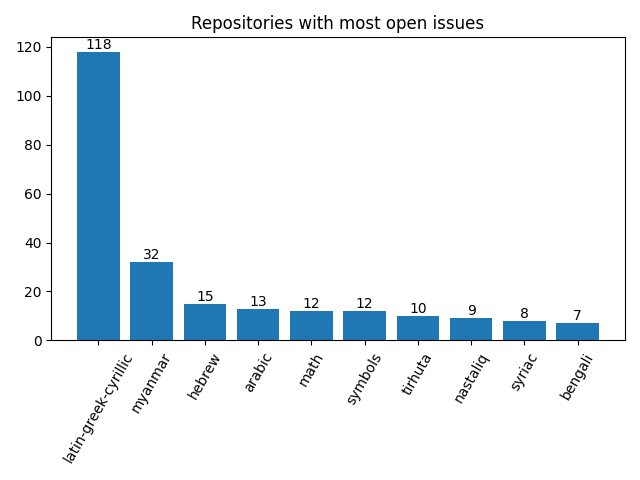
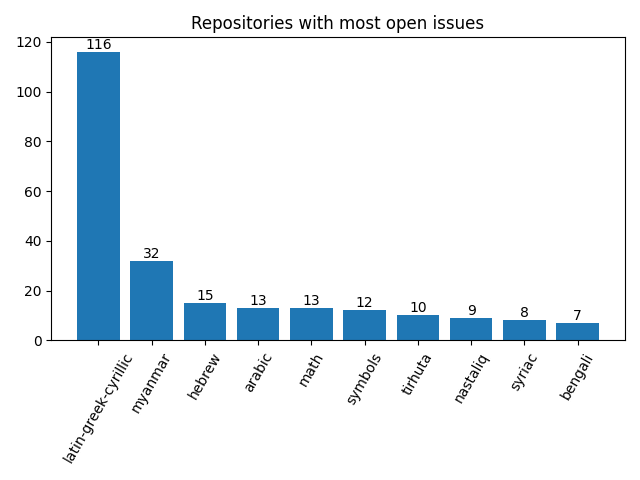
Apply automatic changes

diff --git a/docs/analytics.html b/docs/analytics.html
@@ -69,7 +69,7 @@ td .material-icons { display:inline-flex; vertical-align: top; font-size:1.1rem;
 						</tr>
 						<tr>
 							<td>Jan</td>
-							<td>4</td>
+							<td>5</td>
 							<td>0</td>
 						</tr>
 					</table>
@@ -90,7 +90,7 @@ td .material-icons { display:inline-flex; vertical-align: top; font-size:1.1rem;
 							<td>
 								<a href="http://github.com/notofonts/latin-greek-cyrillic/issues">latin-greek-cyrillic</a>
 							</td>
-							<td>118</td>
+							<td>116</td>
 						</tr>
 						<tr>
 							<td>
@@ -114,7 +114,7 @@ td .material-icons { display:inline-flex; vertical-align: top; font-size:1.1rem;
 							<td>
 								<a href="http://github.com/notofonts/math/issues">math</a>
 							</td>
-							<td>12</td>
+							<td>13</td>
 						</tr>
 						<tr>
 							<td>
@@ -185,13 +185,13 @@ td .material-icons { display:inline-flex; vertical-align: top; font-size:1.1rem;
 				<tr>
 					<td>5</td>
 					<td>
-						<a href="http://github.com/notofonts/bhaiksuki/issues">bhaiksuki</a>,  						<a href="http://github.com/notofonts/gurmukhi/issues">gurmukhi</a>,  						<a href="http://github.com/notofonts/kawi/issues">kawi</a>,  						<a href="http://github.com/notofonts/nandinagari/issues">nandinagari</a>,  						<a href="http://github.com/notofonts/sign-writing/issues">sign-writing</a>,  						<a href="http://github.com/notofonts/syloti-nagri/issues">syloti-nagri</a>,  						<a href="http://github.com/notofonts/tibetan/issues">tibetan</a> 
+						<a href="http://github.com/notofonts/bhaiksuki/issues">bhaiksuki</a>,  						<a href="http://github.com/notofonts/gujarati/issues">gujarati</a>,  						<a href="http://github.com/notofonts/gurmukhi/issues">gurmukhi</a>,  						<a href="http://github.com/notofonts/kawi/issues">kawi</a>,  						<a href="http://github.com/notofonts/nandinagari/issues">nandinagari</a>,  						<a href="http://github.com/notofonts/sign-writing/issues">sign-writing</a>,  						<a href="http://github.com/notofonts/syloti-nagri/issues">syloti-nagri</a>,  						<a href="http://github.com/notofonts/tibetan/issues">tibetan</a> 
 					</td>
 				</tr>
 				<tr>
 					<td>6</td>
 					<td>
-						<a href="http://github.com/notofonts/ahom/issues">ahom</a>,  						<a href="http://github.com/notofonts/dives-akuru/issues">dives-akuru</a>,  						<a href="http://github.com/notofonts/egyptian-hieroglyphs/issues">egyptian-hieroglyphs</a>,  						<a href="http://github.com/notofonts/gujarati/issues">gujarati</a>,  						<a href="http://github.com/notofonts/kannada/issues">kannada</a>,  						<a href="http://github.com/notofonts/malayalam/issues">malayalam</a>,  						<a href="http://github.com/notofonts/old-hungarian/issues">old-hungarian</a> 
+						<a href="http://github.com/notofonts/ahom/issues">ahom</a>,  						<a href="http://github.com/notofonts/dives-akuru/issues">dives-akuru</a>,  						<a href="http://github.com/notofonts/egyptian-hieroglyphs/issues">egyptian-hieroglyphs</a>,  						<a href="http://github.com/notofonts/kannada/issues">kannada</a>,  						<a href="http://github.com/notofonts/malayalam/issues">malayalam</a>,  						<a href="http://github.com/notofonts/old-hungarian/issues">old-hungarian</a> 
 					</td>
 				</tr>
 				<tr>
@@ -230,7 +230,7 @@ td .material-icons { display:inline-flex; vertical-align: top; font-size:1.1rem;
 						<tr>
 							<td>1</td>
 							<td>
-									<a href="http://github.com/notofonts/latin-greek-cyrillic/issues">latin-greek-cyrillic</a>: 118, 
+									<a href="http://github.com/notofonts/latin-greek-cyrillic/issues">latin-greek-cyrillic</a>: 116, 
 
 									<a href="http://github.com/notofonts/hebrew/issues">hebrew</a>: 15, 
 
@@ -240,11 +240,11 @@ td .material-icons { display:inline-flex; vertical-align: top; font-size:1.1rem;
 
 									<a href="http://github.com/notofonts/bengali/issues">bengali</a>: 7, 
 
-									<a href="http://github.com/notofonts/gujarati/issues">gujarati</a>: 6, 
-
 									<a href="http://github.com/notofonts/kannada/issues">kannada</a>: 6, 
 
 									<a href="http://github.com/notofonts/malayalam/issues">malayalam</a>: 6, 
+
+									<a href="http://github.com/notofonts/gujarati/issues">gujarati</a>: 5, 
 
 									<a href="http://github.com/notofonts/gurmukhi/issues">gurmukhi</a>: 5, 
 
@@ -280,7 +280,7 @@ td .material-icons { display:inline-flex; vertical-align: top; font-size:1.1rem;
 						<tr>
 							<td>3</td>
 							<td>
-									<a href="http://github.com/notofonts/math/issues">math</a>: 12, 
+									<a href="http://github.com/notofonts/math/issues">math</a>: 13, 
 
 									<a href="http://github.com/notofonts/symbols/issues">symbols</a>: 12, 
 
